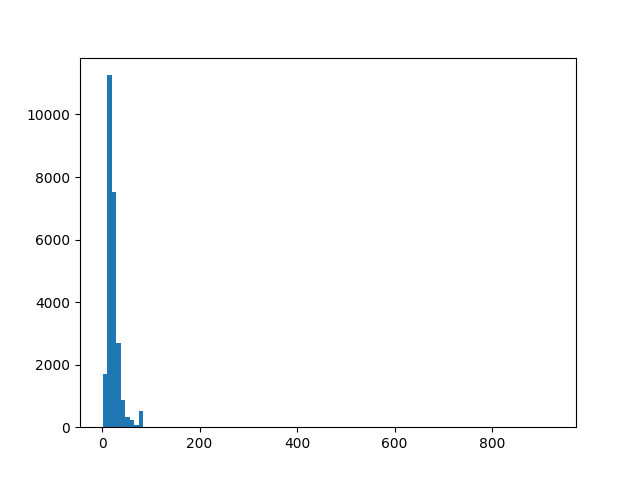
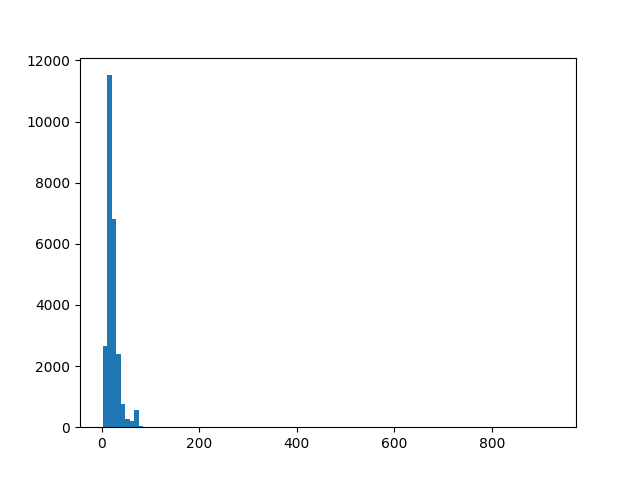
Statistics added

diff --git a/Phishing_Detection_AI/phishing_ai_prediction.py b/Phishing_Detection_AI/phishing_ai_prediction.py
@@ -7,9 +7,10 @@ import urllib.request
 from sklearn.model_selection import train_test_split
 from tensorflow.keras.preprocessing import sequence
 from tqdm import tqdm
+from prettytable import PrettyTable
 import tensorflow as tf
 
-random_seed = 59
+random_seed = 32
 
 np.random.seed(random_seed)
 
@@ -88,7 +89,7 @@ print("Phishing domains:", phishing_domains, len(phishing_domains))
 print("Benign domains:", whitelist_domains, len(whitelist_domains))
 
 
-vocab = sorted(set("".join(phishing_domains+whitelist_domains)), reverse=True)
+vocab = sorted(set("".join(list(phishing_domains)+list(whitelist_domains))), reverse=True)
 # Inserting a space at index 0, since it is not used in url and will be used for padding the examples.
 vocab.insert(0, " ")
 vocab_size = len(vocab)
@@ -178,15 +179,57 @@ model = tf.keras.Sequential([
 
 
 # Compiling the model
-model.compile(loss="binary_crossentropy", optimizer="rmsprop", metrics=['acc'])
+model.compile(loss="binary_crossentropy", optimizer="adam", metrics=['acc'])
 print(model.summary())
 
 # Training the model
-history = model.fit(X_train_encoded_padded, y_train, epochs=3, validation_data=(X_test_encoded_padded, y_test))
+history = model.fit(X_train_encoded_padded, y_train, epochs=5, validation_data=(X_test_encoded_padded, y_test))
 
 #Evaluating the model
+
+
+def evaluate_nn_model(X, y, threshold=0.5):
+    """
+    Custom nn evaluation to get the TP, TN, FP, FN rates.
+    Anything below threshold is considered not phishing.
+    Anything above threshold is considered phishing.
+
+    """
+    print()
+    predictions = model.predict(X_test_encoded_padded).flatten()
+    mean_prediction = np.mean(predictions)
+    print(f"Calculated {len(predictions)} predictions with a mean value of {mean_prediction}")
+    print(f"Evaluating using threshold {threshold}")
+    # Turning the predictions into 0 and 1 by checking the threshold. (0 safe, 1 phishing)
+    predictions_boolean = predictions > threshold
+    predictions_binary = predictions_boolean.astype(np.int)
+    # Concattenating the strings of the binary value of the prediction and the truth.
+    # First value is the prediction, second the actual label
+    # Hypothesis is: is phishing -> positive: yes phishing, negative: no phishing
+    # Then 00 would be a TN, 01 is a FP, 10 is a FN, 11 is a TP. 
+    # Converting the binary outcomes to integer: 0 TN, 1 FP, 2 FN, 3 TP
+    hypothesis_tests = [int(str(prediction)+str(label), 2) for prediction, label in zip(predictions_binary, y)]
+    # Counting the number of times each unique value in the tests is returned.
+    unique_elements, counts_elements = np.unique(hypothesis_tests, return_counts=True)
+    outcome_labels = ["TN", "FP", "FN", "TP"]
+    print("Evaluation counts:", dict(zip(outcome_labels, counts_elements)))
+    evaluation_ratios = dict(zip(outcome_labels, counts_elements/counts_elements.sum()))
+    print("Evaluation ratios:", evaluation_ratios)
+
+    t = PrettyTable(['', 'Is phishing', "Not phishing"])
+    t.add_row(['Predicted phishing', evaluation_ratios["TP"], evaluation_ratios["FP"]])
+    t.add_row(['Predicted safe', evaluation_ratios["FN"], evaluation_ratios["TN"]])
+    print(t)
+    return mean_prediction
+    
+
+    
+
 results = model.evaluate(X_test_encoded_padded, y_test)
 print(results)
+
+mean_prediction = evaluate_nn_model(X_test_encoded_padded, y_test, threshold=0.5)
+mean_prediction = evaluate_nn_model(X_test_encoded_padded, y_test, threshold=mean_prediction)
 
 
 # Making a prediction on a url using the model:
@@ -194,10 +237,10 @@ print()
 show_top_n = 10
 print(f"Predicting the first {show_top_n} examples from the test data:")
 
-first_n_predicitons = model.predict(X_test_encoded_padded[:show_top_n])
-print(first_n_predicitons.flatten())
+first_n_predictions = model.predict(X_test_encoded_padded[:show_top_n])
+print(first_n_predictions.flatten())
 
-prediction_df = pd.DataFrame(data={"domain_names": X_test[:show_top_n], "predicitons": first_n_predicitons.flatten(), "truth": y_test[:show_top_n]})
+prediction_df = pd.DataFrame(data={"domain_names": X_test[:show_top_n], "predictions": first_n_predictions.flatten(), "truth": y_test[:show_top_n]})
 print(prediction_df)
 
 def predict_url(url):
